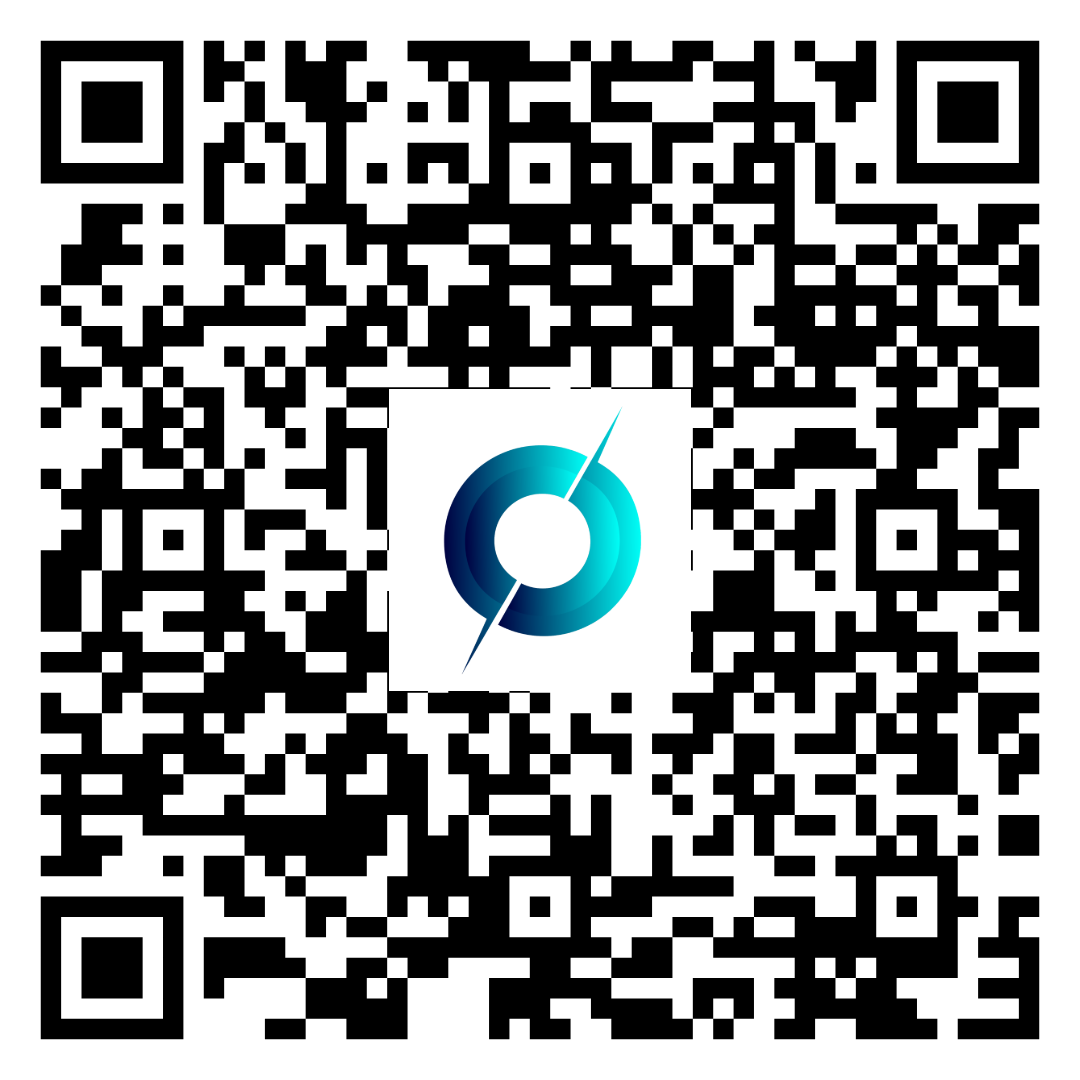
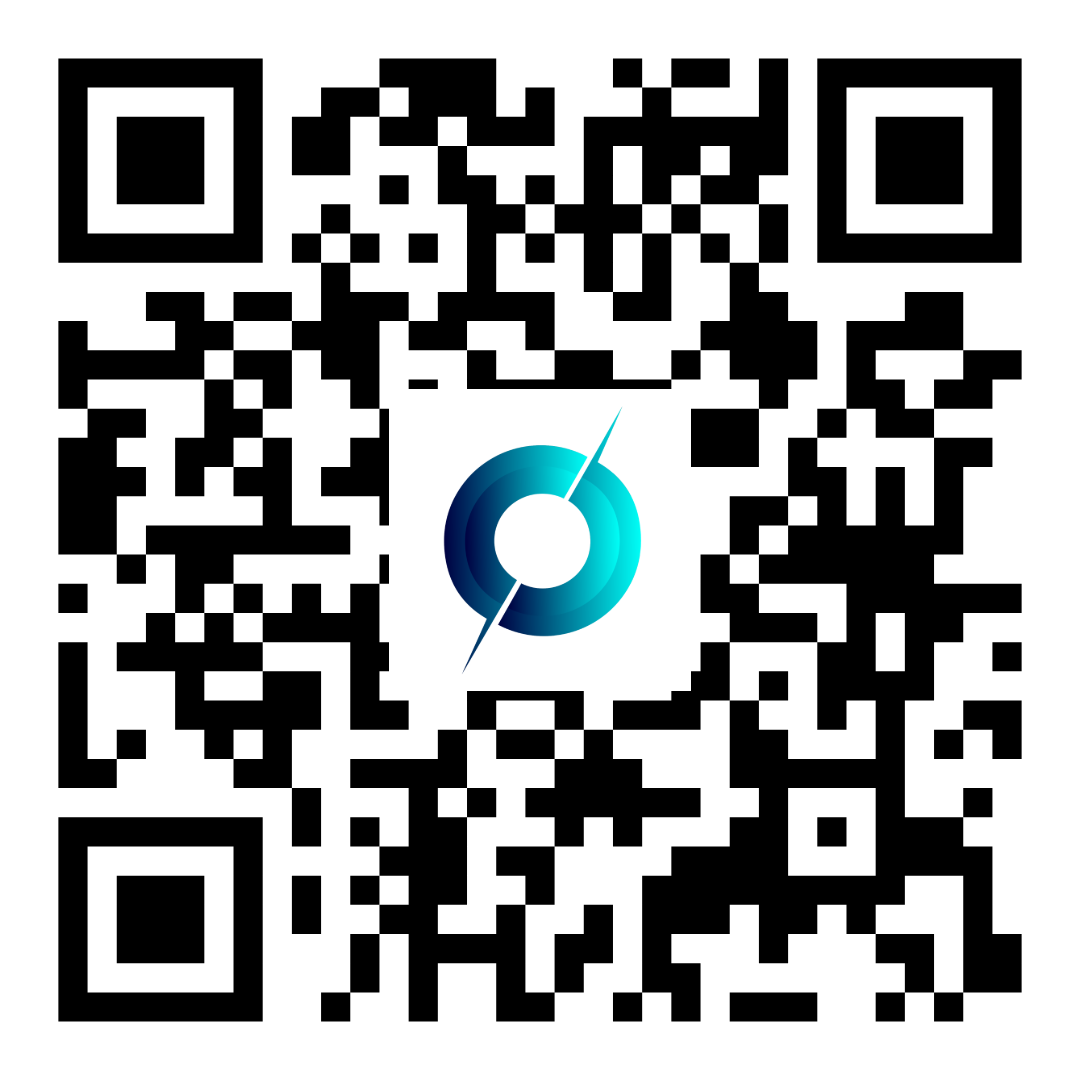
Update Profile Picture and url.

diff --git a/index.js b/index.js
@@ -42,8 +42,8 @@ N:Meléndez;Joel;;;
 ORG:MOS LLC
 TEL;TYPE=CELL:7873095482
 EMAIL:Mosllc.admi@gmail.com
-URL:https://mosllc.github.io/
-ADR:;;Bayamón;Puerto Rico;;;
+URL:https://mosllcpr.github.io/
+ADR:;;Caguas;Puerto Rico;;;
 NOTE:Transformamos ideas en realidades sólidas, realizando proyectos de construcción y servicios de gestorías. En MOS LLC combinamos calidad, seguridad y confianza, convirtiéndonos en un aliado estratégico para cada proyecto.
 END:VCARD`;
 
